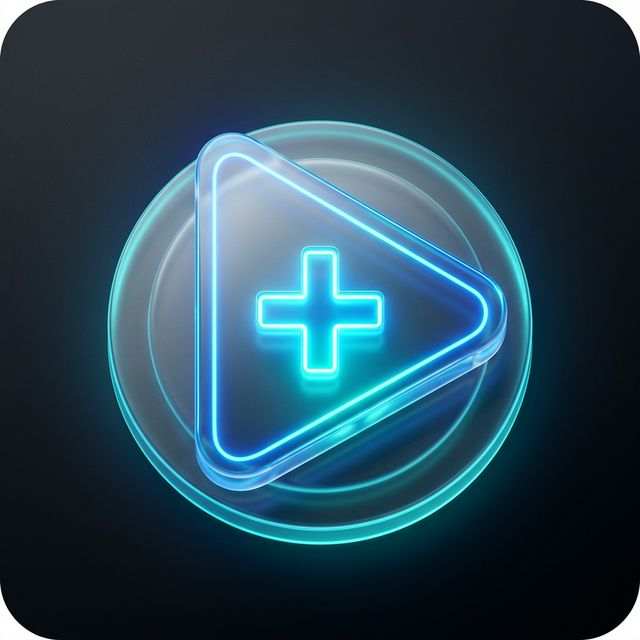
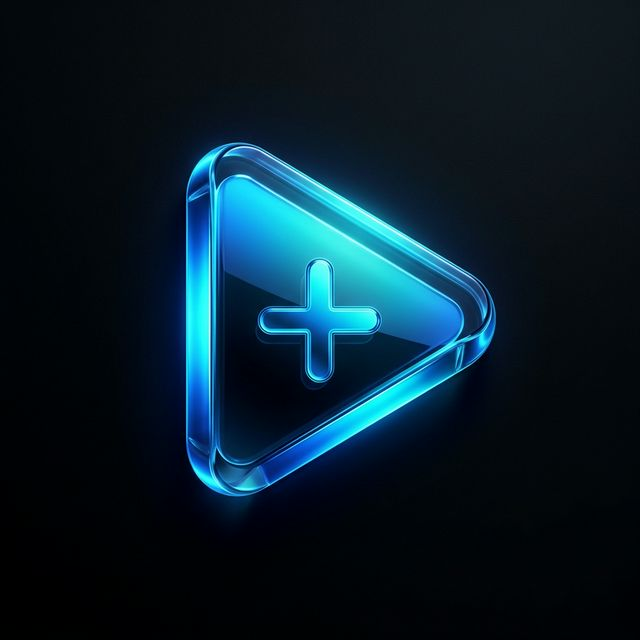
Add files via upload

diff --git a/static/js/main.js b/static/js/main.js
@@ -68,9 +68,14 @@ async function sendOTP() {
         });
         
         if (!res.ok) {
-            const text = await res.text();
-            console.error("Server Error:", text);
-            throw new Error(`Server returned ${res.status}. Check Vercel Logs.`);
+            let errorMsg = `Server returned ${res.status}`;
+            try {
+                const errorData = await res.json();
+                errorMsg = errorData.error || errorMsg;
+            } catch (e) {
+                // Not JSON
+            }
+            throw new Error(errorMsg);
         }
         
         const data = await res.json();
@@ -100,8 +105,12 @@ async function verifyOTP() {
         });
         
         if (!res.ok) {
-            const text = await res.text();
-            throw new Error("Verification failed. Please check OTP.");
+            let errorMsg = "Verification failed";
+            try {
+                const errorData = await res.json();
+                errorMsg = errorData.error || errorMsg;
+            } catch (e) {}
+            throw new Error(errorMsg);
         }
         
         const data = await res.json();

diff --git a/app.py b/app.py
@@ -24,10 +24,17 @@ if not MONGO_URI:
     print("WARNING: MONGO_URI not found.")
     db = None
 else:
-    client = MongoClient(MONGO_URI)
-    db = client['live_plus']
-    users_col = db['users']
-    otps_col = db['otps']
+    try:
+        # User selection timeout helps identify connection issues immediately
+        client = MongoClient(MONGO_URI, serverSelectionTimeoutMS=5000)
+        db = client['live_plus']
+        users_col = db['users']
+        otps_col = db['otps']
+        # Preliminary check
+        client.admin.command('ping')
+    except Exception as e:
+        print(f"DATABASE CONNECTION ERROR: {e}")
+        db = None
 
 # Email Setup
 app.config['MAIL_SERVER'] = 'smtp.gmail.com'